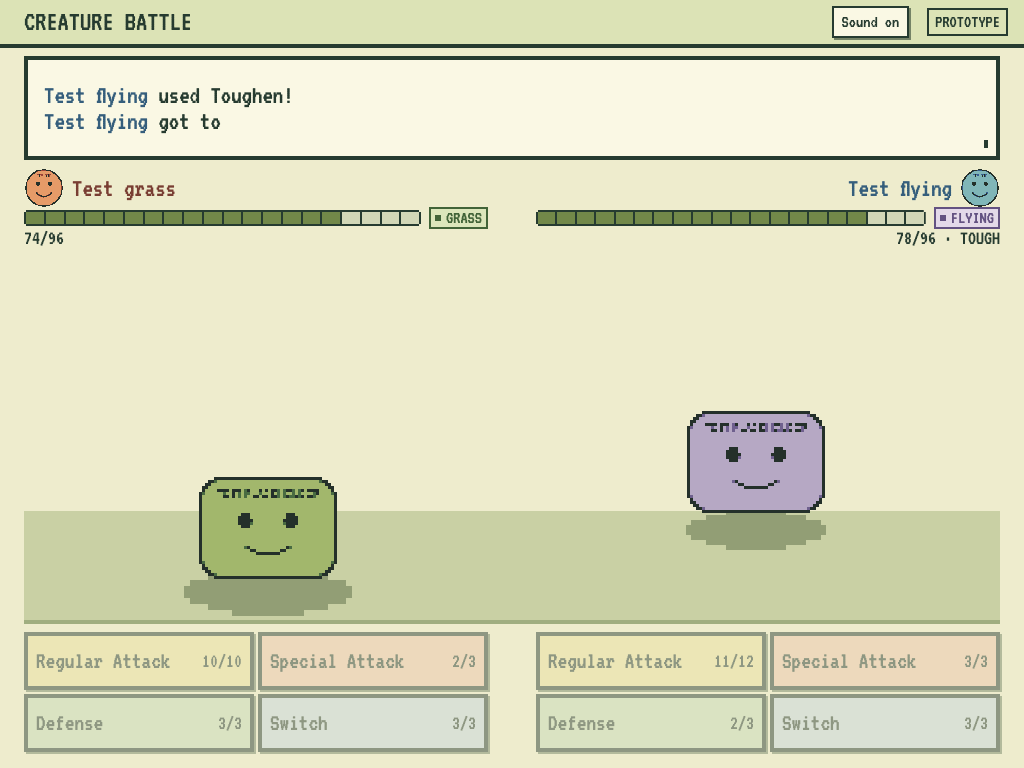
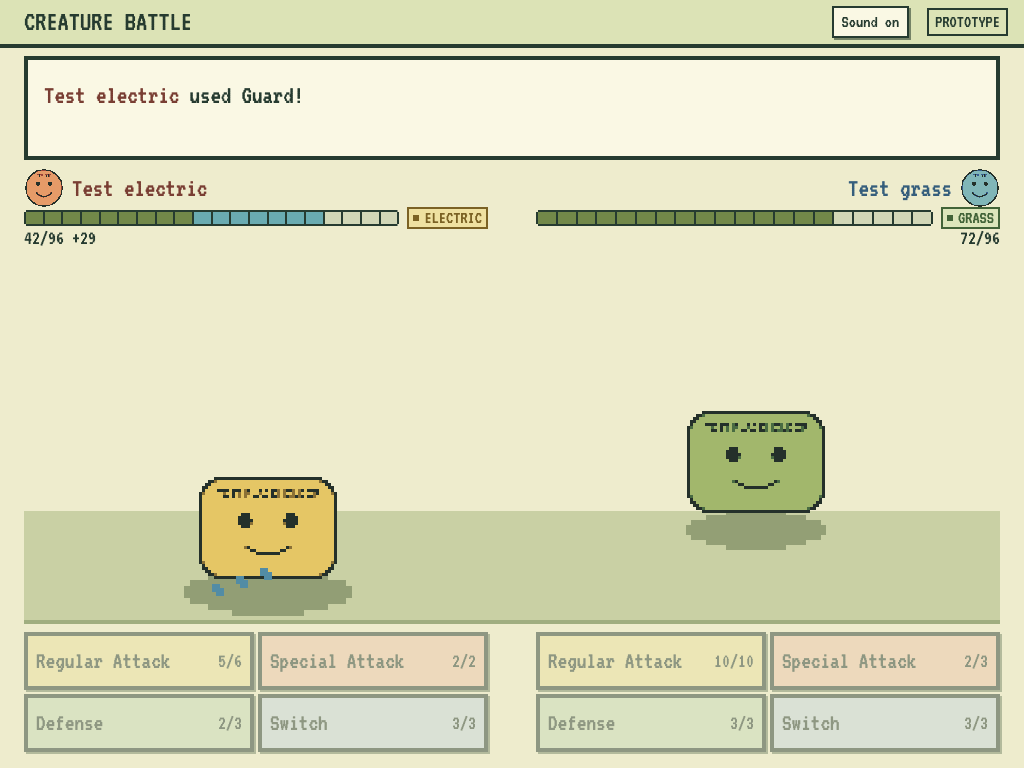
Synchronize battle input guard and preserve focused message contrast

diff --git a/creature-battle/src/ui/battle.js b/creature-battle/src/ui/battle.js
@@ -54,20 +54,20 @@ export function battleView({app,initial,trainers,imageSrc,portraitSrc,getState,o
  }
  function perform(side,action){if(disposed||locked||!humanSides.includes(side)||Date.now()<guardUntil)return;selected=null;onAction(side,action);}
  function tray(side,replacement){const s=view,g=grids[side];g.replaceChildren();const tray=el('div','tray');tray.append(el('strong',null,replacement?(humanSides.includes(side)?'Pick your next creature!':'Bot is choosing a creature...'):`Switches left: ${s.switchesLeft[side]}`));
-  s.teams[side].forEach((m,index)=>{if(index===s.active[side]||m.hp<=0)return;const b=el('button',null,`${m.name} ${m.hp}/${m.maxHp}`);b.dataset.bench=index;b.append(typeChip(m.type));b.disabled=locked||!humanSides.includes(side);
+  s.teams[side].forEach((m,index)=>{if(index===s.active[side]||m.hp<=0)return;const b=el('button',null,`${m.name} ${m.hp}/${m.maxHp}`);b.dataset.bench=index;b.append(typeChip(m.type));b.disabled=locked||Date.now()<guardUntil||!humanSides.includes(side);
    b.onclick=()=>{if(disposed||locked||!humanSides.includes(side)||Date.now()<guardUntil)return;if(replacement)onReplacement(side,index);else confirm(side,{kind:'switch',index},`Bring in ${m.name}.`);};tray.append(b);
   });if(!replacement){const back=el('button',null,'Back');back.onclick=controls;tray.append(back);}g.append(tray);
  }
- function controls(){if(disposed)return;const s=view,turn=locked?{side:animationSide,need:'action'}:whoseTurn(s);selected=null;
+ function controls(){if(disposed)return;const s=view,turn=locked?{side:animationSide,need:'action'}:whoseTurn(s),guarded=Date.now()<guardUntil;selected=null;
   for(let owner=0;owner<2;owner++){
-   sides[owner].classList.toggle('active',!locked&&!turn.over&&turn.side===owner&&humanSides.includes(owner));const g=grids[owner];g.replaceChildren();
+   sides[owner].classList.toggle('active',!locked&&!guarded&&!turn.over&&turn.side===owner&&humanSides.includes(owner));const g=grids[owner];g.replaceChildren();
    const m=s.teams[owner][s.active[owner]],actions=getActions(s,owner);
    for(const [kind,label]of [['regular','Regular Attack'],['special','Special Attack'],['defense','Defense'],['switch','Switch']]){
     const a=kind==='switch'?actions.find(a=>a.kind==='switch'&&a.enabled)??actions.find(a=>a.kind==='switch'):actions.find(a=>a.kind===kind||(kind==='regular'&&a.kind==='fallback'));
     const fallback=a.kind==='fallback',move=kind==='switch'?null:fallback?s.rules.fallback:s.rules.moves[kind][m.moves[kind].id];
     const remaining=kind==='switch'?s.switchesLeft[owner]:m.pp[kind],maximum=kind==='switch'?s.rules.switchLimit:fallback?null:move.pp;
     const b=el('button',kind);b.dataset.action=kind;b.append(el('span','category',fallback?'Tired Attack':label),el('span','pp',fallback?'--':`${remaining}/${maximum}`));
-    b.classList.toggle('exhausted',!fallback&&remaining===0);b.disabled=locked||!humanSides.includes(owner)||!a.enabled;b.setAttribute('aria-disabled',String(b.disabled));b.title=a.enabled?'':a.reason;
+    b.classList.toggle('exhausted',!fallback&&remaining===0);b.disabled=locked||guarded||!humanSides.includes(owner)||!a.enabled;b.setAttribute('aria-disabled',String(b.disabled));b.title=a.enabled?'':a.reason;
     b.setAttribute('aria-label',`${fallback?'Tired Attack, always available':`${label}, ${remaining} of ${maximum} uses left`}${!a.enabled?`. ${a.reason}`:''}`);
     b.onclick=()=>{if(disposed||locked||!humanSides.includes(owner)||Date.now()<guardUntil)return;if(kind==='switch')tray(owner,false);else confirm(owner,{kind:a.kind},label);};g.append(b);
    }
@@ -83,7 +83,7 @@ export function battleView({app,initial,trainers,imageSrc,portraitSrc,getState,o
   if(matchMedia('(prefers-reduced-motion: reduce)').matches){eventSound(e);return Promise.resolve();}eventSound(e);const jobs=[];
   const animate=(node,frames,duration=260)=>{const animation=node.animate(frames,{duration,easing:'steps(8,end)'});effects.add(animation);jobs.push(animation.finished.catch(()=>{}).finally(()=>effects.delete(animation)));};
   const side=e.t==='hit'?e.target:e.side,img=panels[side]?.img;
-  if(e.t==='use'||e.t==='fallback'){
+  if(e.t==='use'){
    if(view.rules.moves.defense[e.moveId])return Promise.resolve();
    const special=!!view.rules.moves.special[e.moveId];if(special){const source=panels[e.side].img.getBoundingClientRect(),target=panels[1-e.side].img.getBoundingClientRect(),area=fx.getBoundingClientRect(),spark=el('div',`projectile type-${active(e.side).type}`);spark.style.left=`${source.x+source.width/2-area.x}px`;spark.style.top=`${source.y+source.height/2-area.y}px`;fx.append(spark);
     animate(spark,[{transform:'translate(0,0)'},{transform:`translate(${target.x-source.x}px,${target.y-source.y}px)`}],300);jobs.at(-1).then(()=>spark.remove());
@@ -96,13 +96,13 @@ export function battleView({app,initial,trainers,imageSrc,portraitSrc,getState,o
   else if(e.t==='faint')animate(img,[{opacity:1,transform:'translateY(0)'},{opacity:0,transform:'translateY(24px)'}],300);
   return Promise.all(jobs);
  }
- function eventSound(e){const sound=e.t==='use'?(view.rules.moves.special[e.moveId]?'special':view.rules.moves.defense[e.moveId]?null:'regular'):({fallback:'regular',hit:'hit',recoil:'hit',heal:'heal',shieldUp:'shield',toughen:'shield',switch:'switch',enter:'switch',faint:'faint',win:'win'})[e.t];if(sound)playSound(sound);}
+ function eventSound(e){const sound=e.t==='use'?(view.rules.moves.special[e.moveId]?'special':view.rules.moves.defense[e.moveId]?null:'regular'):({hit:'hit',recoil:'hit',heal:'heal',shieldUp:'shield',toughen:'shield',switch:'switch',enter:'switch',faint:'faint',win:'win'})[e.t];if(sound)playSound(sound);}
  async function animate(events){
   animationSide=events.find(e=>['use','switch','rest'].includes(e.t))?.side??events.find(e=>e.t==='round')?.order[0]??whoseTurn(getState()).side??getState().winner??0;locked=true;controls();
-  let cancelled=false,wake,buffer=[],summary=[];const seen=new Set();
+  let cancelled=false,wake,buffer=[],summary=[],pendingEntry=null;const seen=new Set();
   skip=()=>{cancelled=true;finishTyping?.();for(const animation of effects)animation.cancel();wake?.();};
   for(const e of events){
-   if(disposed)return;const previous=[name(0),name(1)];applyEvent(e);paint();controls();const lines=messages(e,previous);
+   if(disposed)return;const previous=[name(0),name(1)],repeatedEntry=e.t==='enter'&&e.side===pendingEntry;pendingEntry=e.t==='switch'?e.side:null;applyEvent(e);paint();controls();if(repeatedEntry)continue;const lines=messages(e,previous);
    if(e.t==='hit')summary=[lines.find(l=>l.text.startsWith('It dealt')),...lines.filter(l=>l.text.includes('effective')||l.text.includes('critical'))].slice(0,2);
    else if(['heal','miss','recoil','faint','win','switch','rest','shieldUp','toughen'].includes(e.t))summary=summary[0]?.text.startsWith('It dealt')?[summary[0],lines[0]]:lines.slice(0,2);
    if(cancelled){buffer=[...buffer,...lines].slice(-3);eventSound(e);continue;}if(!lines.length)continue;

diff --git a/creature-battle/index.html b/creature-battle/index.html
@@ -6,14 +6,14 @@
 <meta name="robots" content="noindex">
 <meta name="theme-color" content="#dce3b6">
 <title>Creature Battle</title>
-<link rel="stylesheet" href="styles.css?v=21">
-<script>const GAME_VERSION = 21; window.GAME_VERSION = GAME_VERSION;</script>
-<script type="importmap">{"imports":{"./src/rules.js":"./src/rules.js?v=21","./src/rng.js":"./src/rng.js?v=21","./src/engine.js":"./src/engine.js?v=21","./src/messages.js":"./src/messages.js?v=21","./src/collection.js":"./src/collection.js?v=21","./src/ai.js":"./src/ai.js?v=21","./src/ui/main.js":"./src/ui/main.js?v=21","./src/ui/teampick.js":"./src/ui/teampick.js?v=21","./src/ui/battle.js":"./src/ui/battle.js?v=21","./src/ui/components.js":"./src/ui/components.js?v=21","./src/ui/pixels.js":"./src/ui/pixels.js?v=21","./src/ui/audio.js":"./src/ui/audio.js?v=21"}}</script>
+<link rel="stylesheet" href="styles.css?v=22">
+<script>const GAME_VERSION = 22; window.GAME_VERSION = GAME_VERSION;</script>
+<script type="importmap">{"imports":{"./src/rules.js":"./src/rules.js?v=22","./src/rng.js":"./src/rng.js?v=22","./src/engine.js":"./src/engine.js?v=22","./src/messages.js":"./src/messages.js?v=22","./src/collection.js":"./src/collection.js?v=22","./src/ai.js":"./src/ai.js?v=22","./src/ui/main.js":"./src/ui/main.js?v=22","./src/ui/teampick.js":"./src/ui/teampick.js?v=22","./src/ui/battle.js":"./src/ui/battle.js?v=22","./src/ui/components.js":"./src/ui/components.js?v=22","./src/ui/pixels.js":"./src/ui/pixels.js?v=22","./src/ui/audio.js":"./src/ui/audio.js?v=22"}}</script>
 </head>
 <body>
 <header><a id="game-home" href="./">Creature Battle</a><button id="sound-toggle" class="sound-toggle" type="button">Sound on</button><span class="prototype-tag">PROTOTYPE</span><span id="debug-tag" hidden>DEBUG</span></header>
 <main id="app">Loading the collection…</main>
 <div id="rotate" hidden>Turn your screen sideways to battle!</div>
-<script type="module" src="src/ui/main.js?v=21"></script>
+<script type="module" src="src/ui/main.js?v=22"></script>
 </body>
 </html>

diff --git a/creature-battle/styles.css b/creature-battle/styles.css
@@ -26,3 +26,5 @@
 
 .fighter.fainted .pixel-shadow{opacity:0}.side[data-side="1"] .pixel-shadow{width:84px;height:24px;left:30px}
 @media(min-height:600px){.side[data-side="1"] .pixel-shadow{width:140px;height:40px;left:26px}}
+
+.text-box:focus-visible .name-chip{color:inherit}.text-box:focus-visible.writing::after{background:var(--surface)}

diff --git a/creature-battle/design/acceptance/shared-arena/README.md b/creature-battle/design/acceptance/shared-arena/README.md
@@ -1,4 +1,4 @@
-# Shared arena — version 21
+# Shared arena — version 22
 
 The battle view has one full-width message box at the top and one shared floor.
 Smaller sprites stand over stepped oval shadows. Trainer portraits have no extra
@@ -13,7 +13,9 @@ two-line presentation following the owner’s request to show more per screen.
 Move buttons show only category and remaining/max PP. Spent moves grey out;
 when both attack pools are spent, Tired Attack remains available to prevent a
 softlock. Human ownership, the event presentation snapshot and the input guard
-remain enforced.
+remain enforced. Buttons stay disabled through the input guard, so enabled
+controls reliably accept taps. Name colours remain readable on the inverted
+keyboard focus background.
 
 Regular attacks lunge, special attacks send a coloured pixel projectile, hits
 blink/shake, defensive moves pulse with pixel sparks, and switches/faints animate
